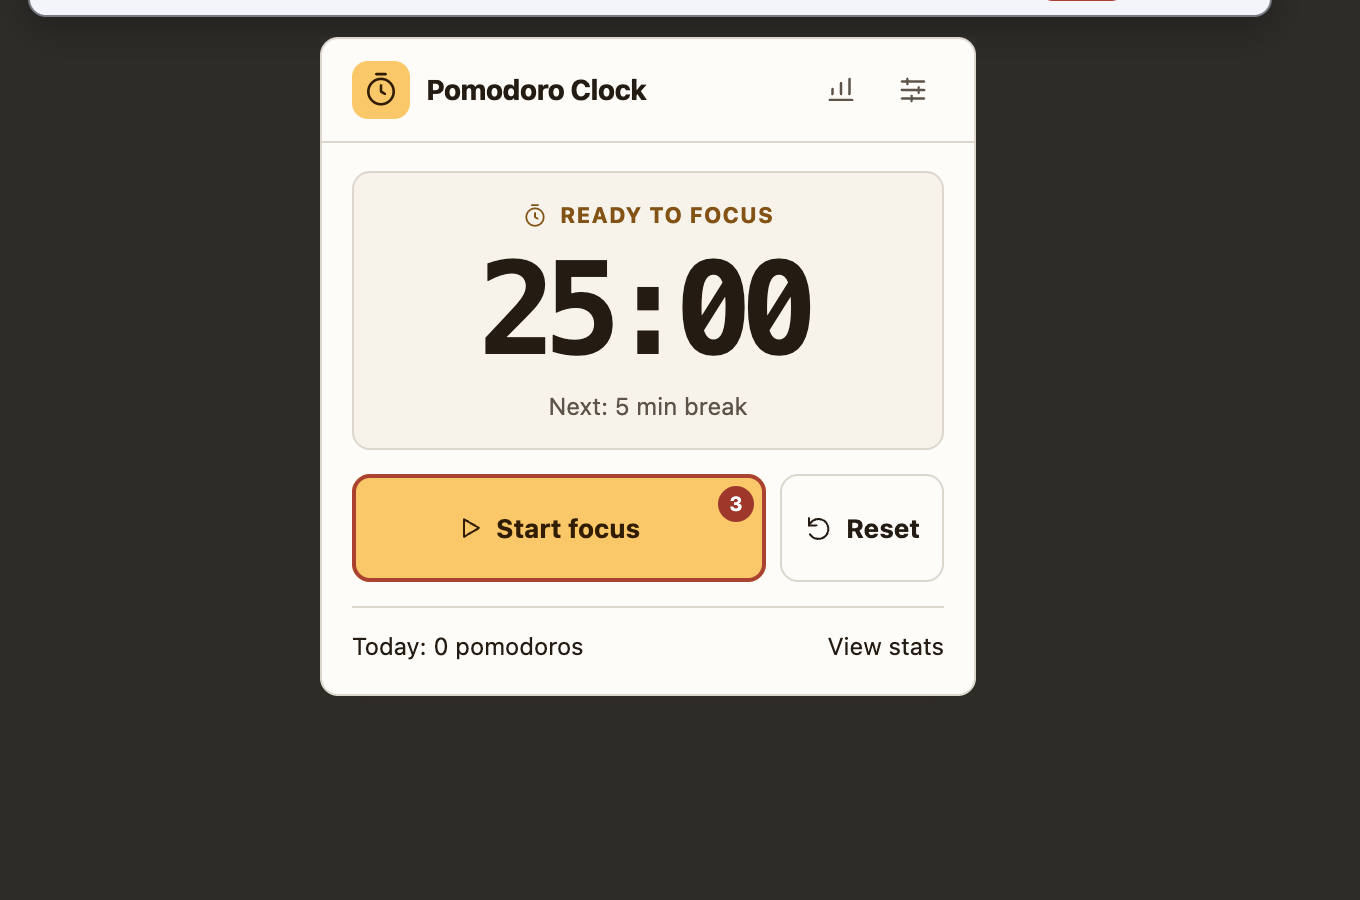
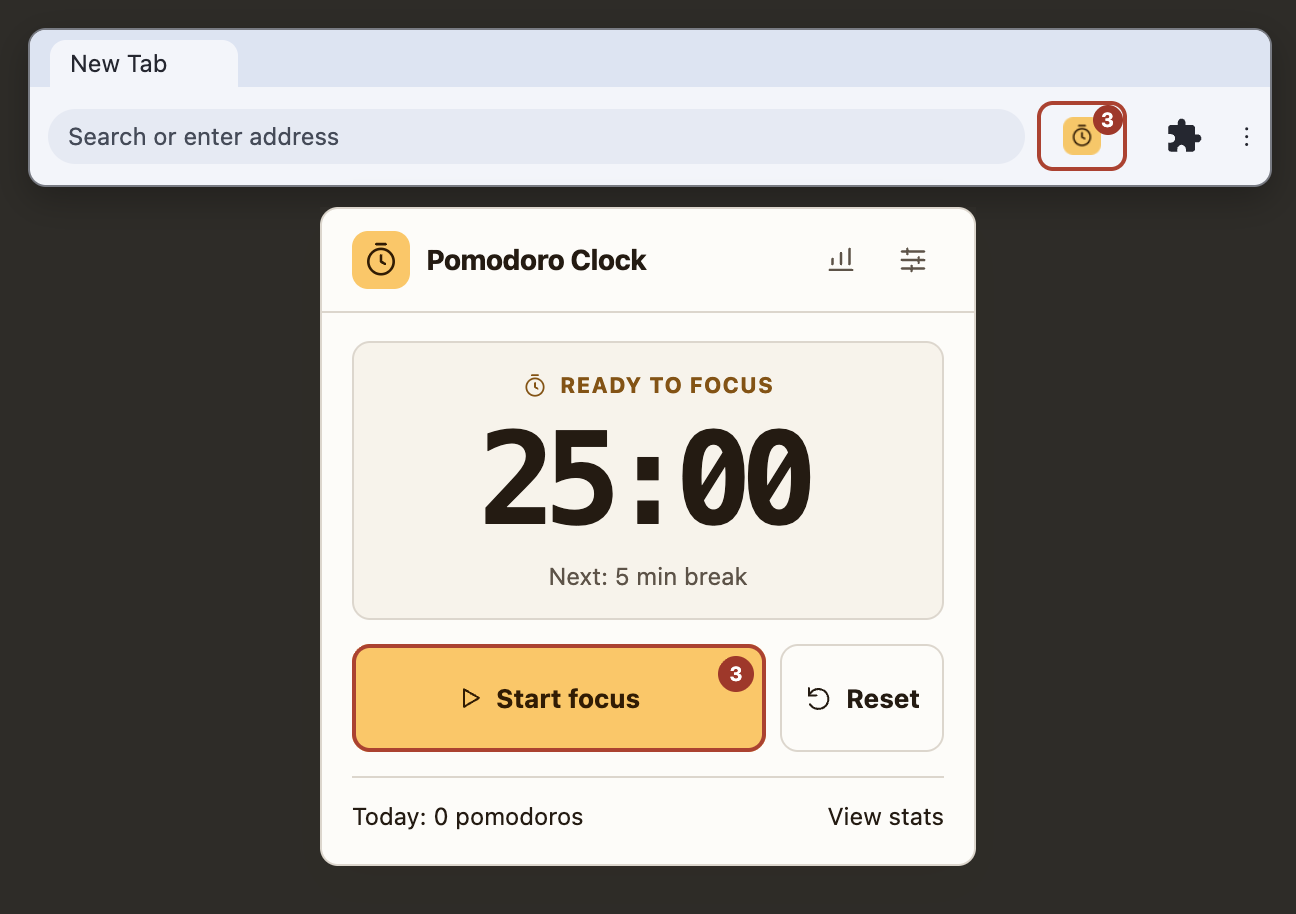
Welcome: fix crooked step images (clean renders, cache-busted)

diff --git a/welcome/index.html b/welcome/index.html
@@ -47,11 +47,11 @@
     <li class="step">
       <h2 class="pair"><span class="num">1</span>Click the puzzle icon in the top-right corner of Chrome</h2>
       <h2><span class="num">2</span>Find Pomodoro Clock and click the pin</h2>
-      <img class="shot" src="steps-1-2.png" width="640" height="184" alt="The puzzle icon in the Chrome toolbar, and the pin button next to Pomodoro Clock in the extensions menu">
+      <img class="shot" src="steps-1-2.png?v=2" width="640" height="284" alt="The puzzle icon in the Chrome toolbar, and the pin button next to Pomodoro Clock in the extensions menu">
     </li>
     <li class="step">
       <h2><span class="num">3</span>Click the Pomodoro Clock icon, then click Start focus</h2>
-      <img class="shot" src="step-3.png" width="640" height="424" alt="The Pomodoro Clock icon pinned to the toolbar, and the timer popup with the Start focus button">
+      <img class="shot" src="step-3.png?v=2" width="640" height="451" alt="The Pomodoro Clock icon pinned to the toolbar, and the timer popup with the Start focus button">
     </li>
   </ol>
 
